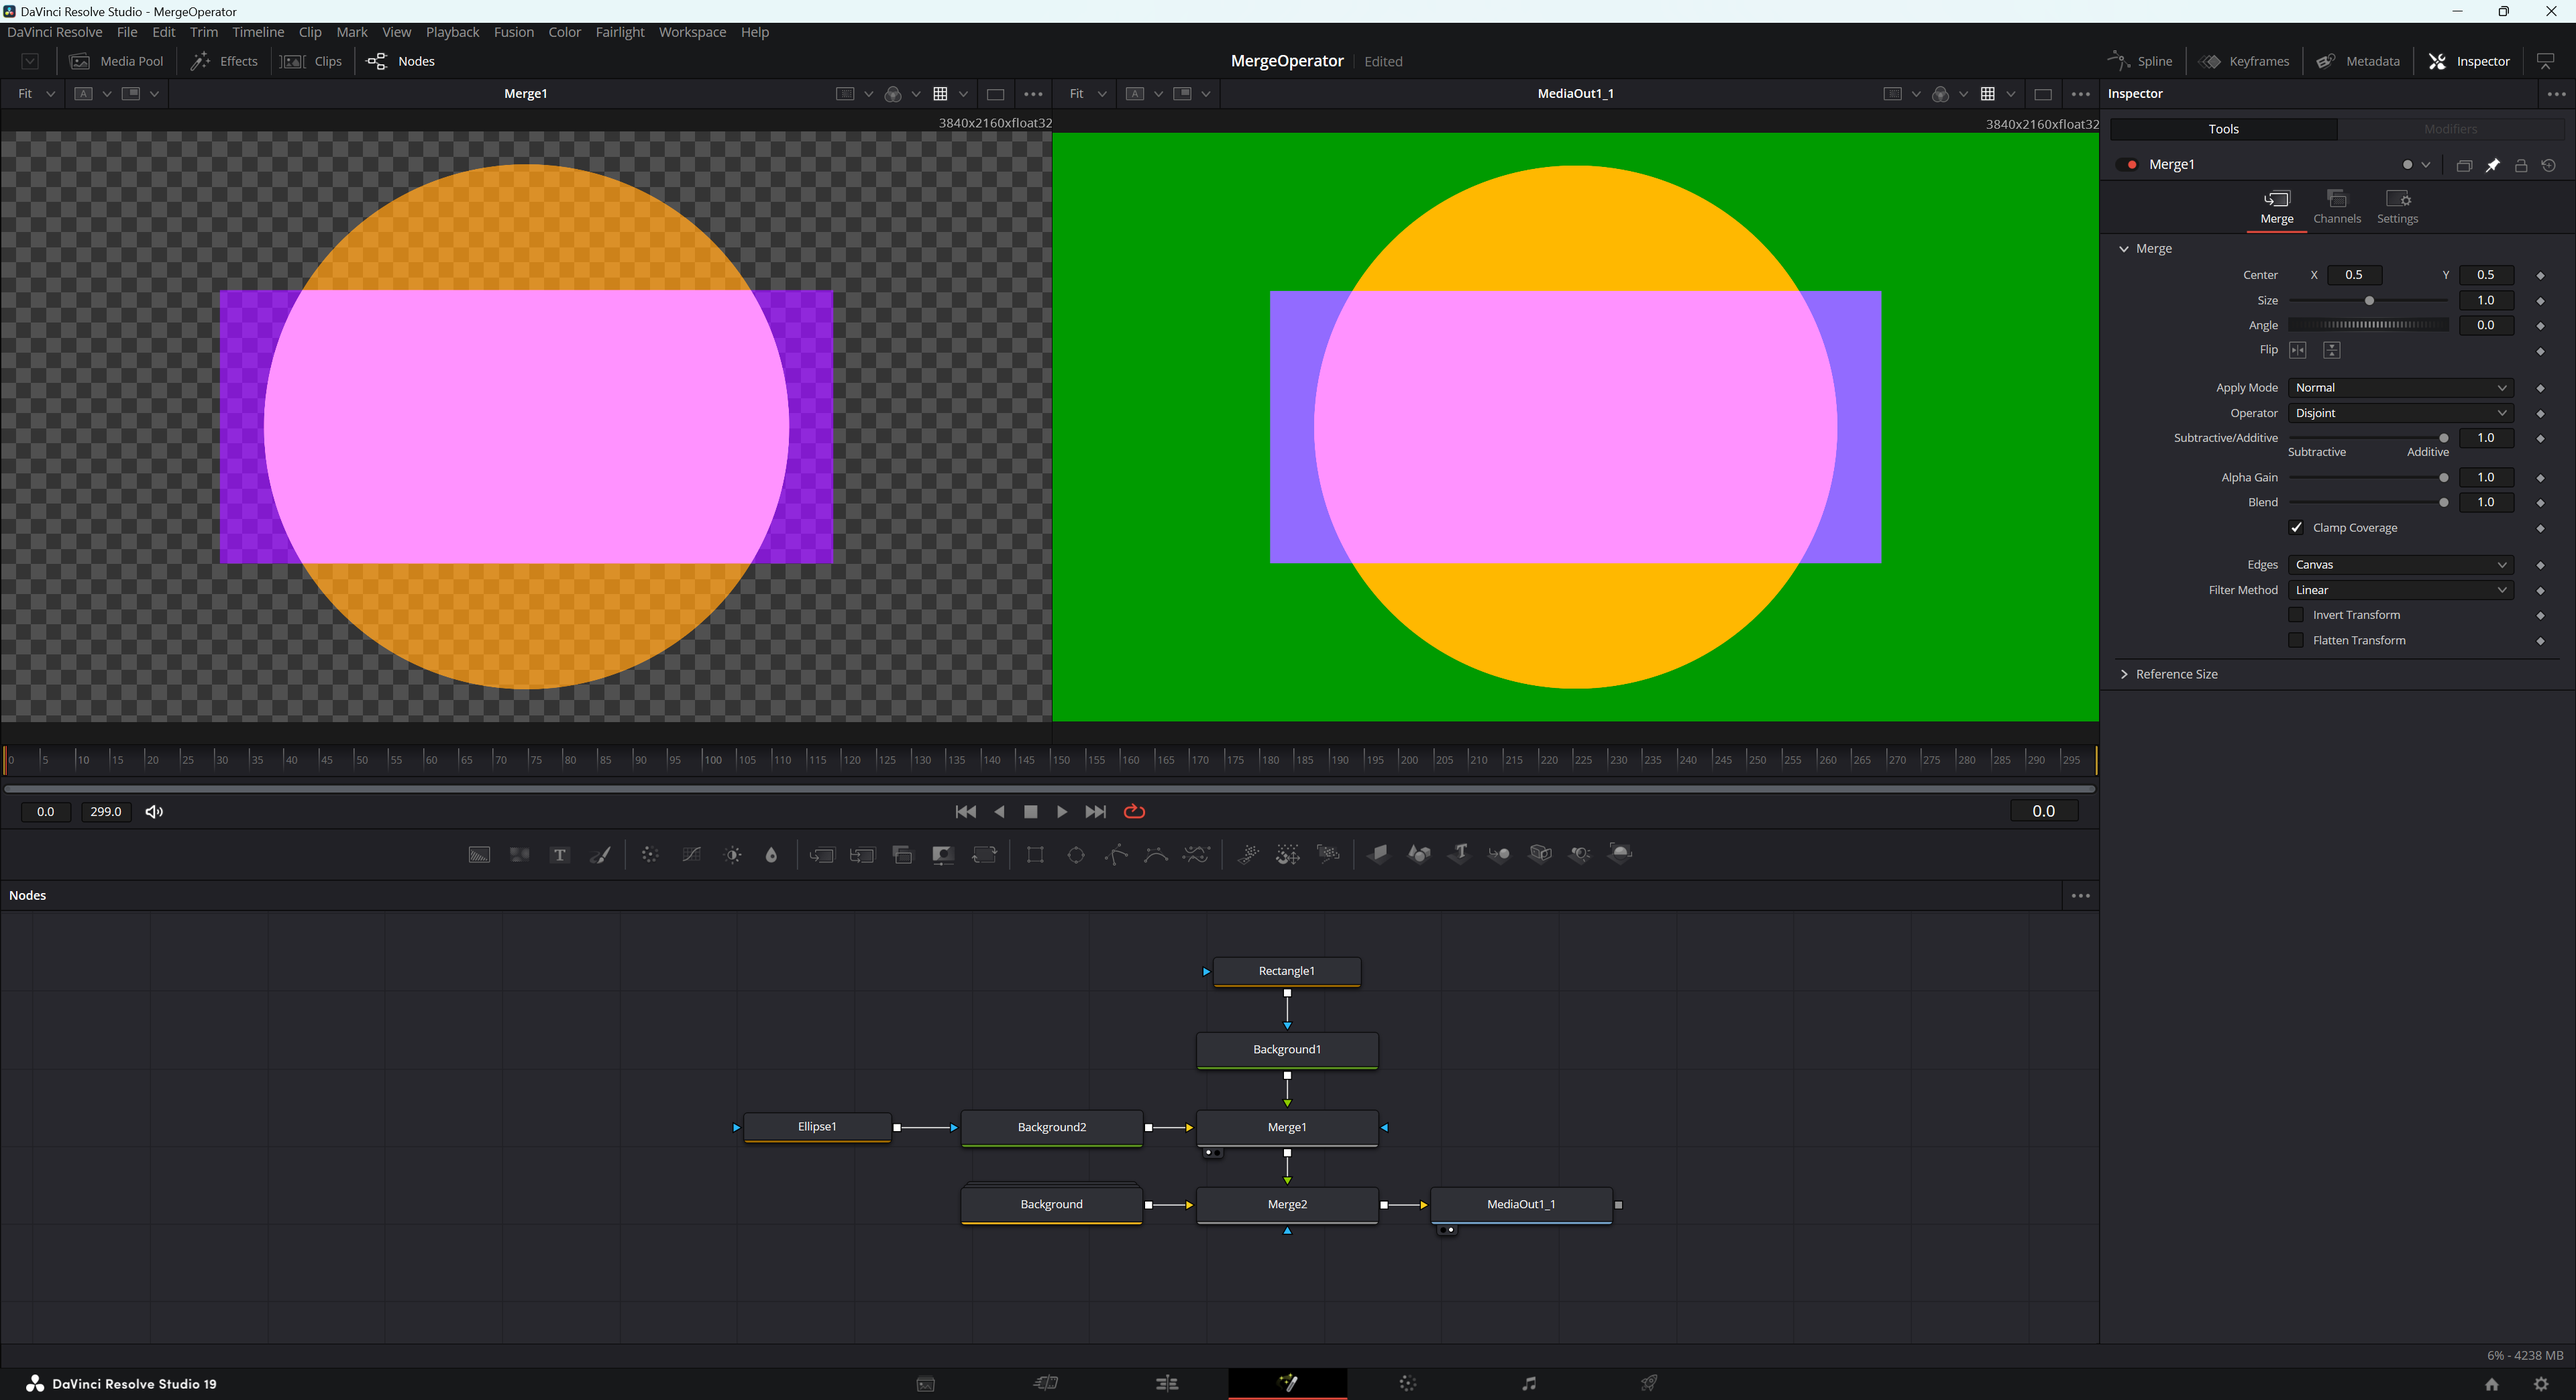
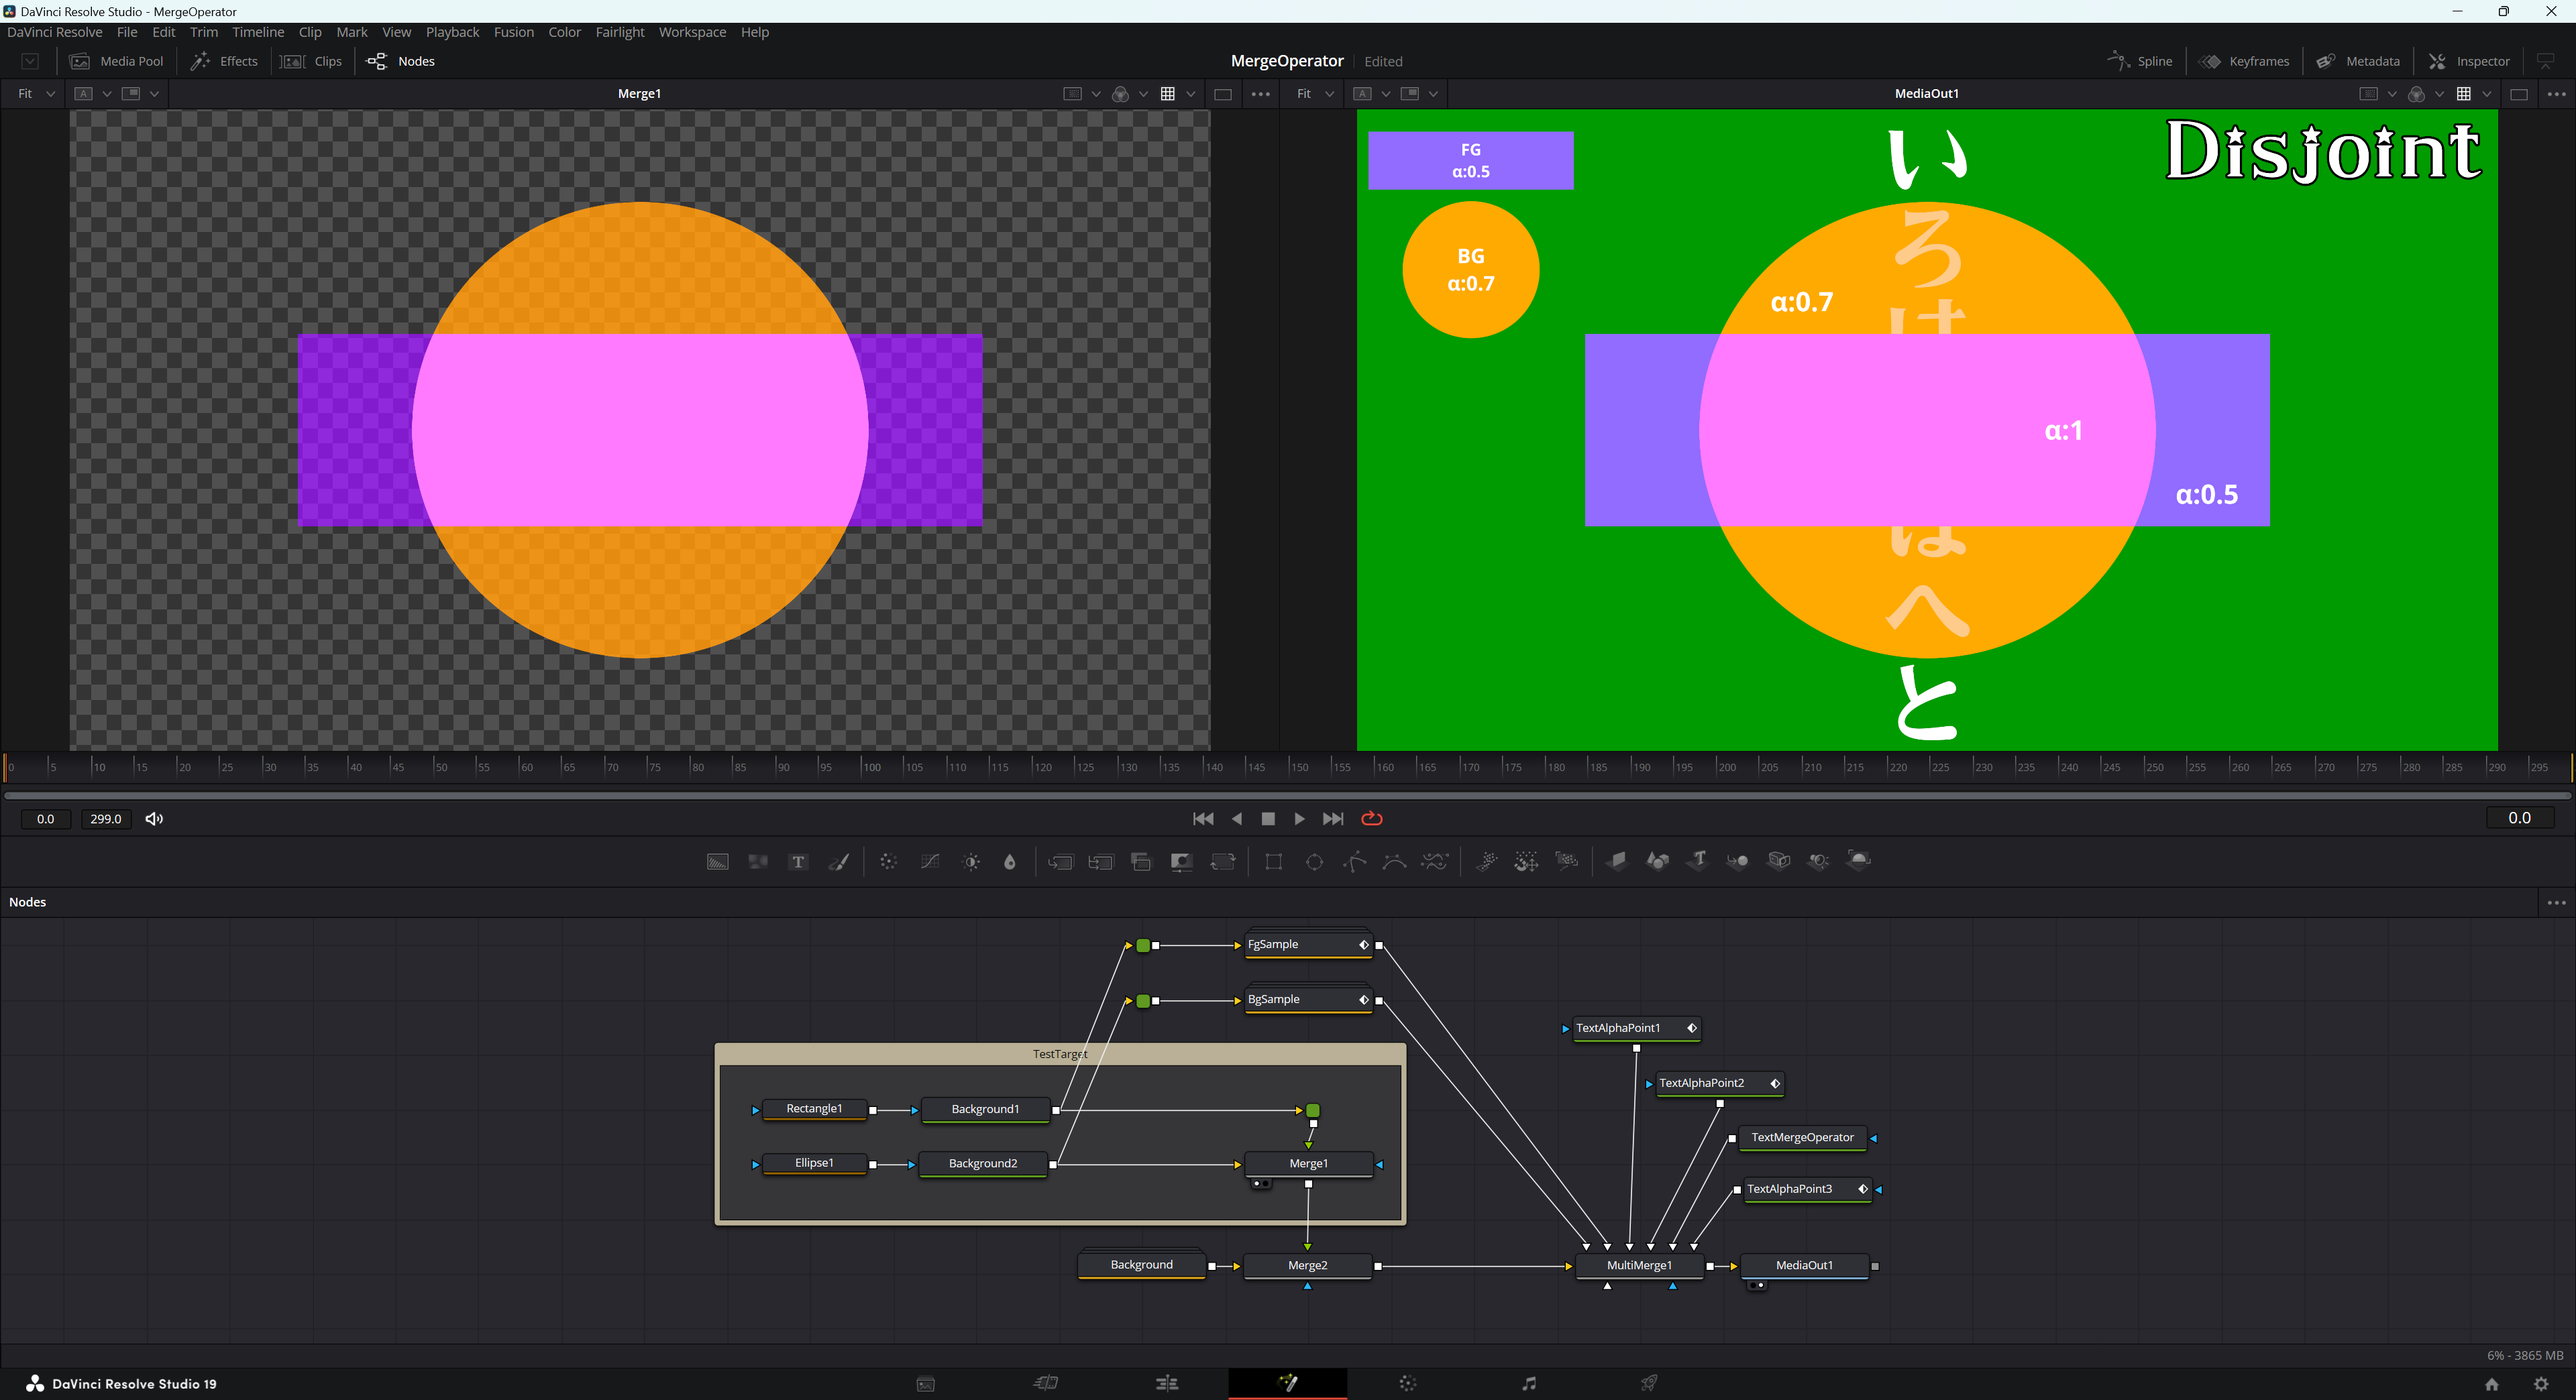
updated

diff --git a/articles/324c272353f854.md b/articles/324c272353f854.md
@@ -22,50 +22,108 @@ Operatorというパラメータがあり、このパラメータでフォアグ
 
 ### 比較用映像
 
-オレンジ色の円と紫色の長方形を用意し、
-長方形側をフォアグラウンドとしてMergeノード(Merge1)で合成します。
-どちらもアルファは0.5です。
+🍊オレンジ色の円形と🍆紫色の長方形を用意し、
+長方形側をフォアグラウンド,円形をバックグランドとして
+Mergeノード(Merge1)で合成します。
+アルファは長方形0.5、円形0.7のパターンと、両方とも1.0のパターンで確認します。
 
-![比較用映像](/images/articles/merge-operator/target.png)
+![比較用映像](/images/articles/merge-operator/test-target.png)
 *比較用映像*
 
 
 ### 背景
 
-緑色の背景に、テキストを重ねたものを背景とします。
+🥦緑色の背景に、テキストを重ねたものを背景とします。
 この上にOperator設定比較用映像を重ねます(Merge2)。
 Merge2のOperatorはOver固定です。
 
 ![背景映像](/images/articles/merge-operator/background.png)
 *背景映像*
 
+### 単独表示
+
+単独で長方形(FgSample)、円形(BgSampl)を左上に表示させて
+Merge後の映像との比較用に使用します。
+
+![サンプル](/images/articles/merge-operator/sample.png)
+
+### アルファ表示
+
+詳細確認用にMerge後の👻アルファ値をテキストで表示します。
+テキストが表示されている位置のアルファ値を表しています。
+ただし、アルファ値表示は多少誤差が出ます😖
+
+![アルファテキスト](/images/articles/merge-operator/alpha-text.png)
+
 ## ⚡Operator比較
+
+各設定値の比較結果は以下のルールで表します。
 
 * プレビュー👈左側はMerge1の出力です
   背景映像との合成前
-
-* プレビュー👉右側はMerge2の出力です
+* プレビュー👉右側はMediaOutの出力です
   背景映像との合成後
+* 対になる設定値は順番を入れ替えて隣接させています
+  DaVinci Resolve上の設定順とは異なります、注意❗
+* 🍆フォアグラウンド側(長方形)をFGとします。
+* 🍊バックグラウンド側(円形)をBGとします。
+
 
 ### Over(オーバー)
+
+FGをBGの上に重ねます。
 
 ![Over](/images/articles/merge-operator/over.png)
 *Over*
 
+### Under(下)
+
+BGをFGの上に重ねます。
+
+![Under](/images/articles/merge-operator/under.png)
+*Under*
+
+
 ### In(イン)
+
+FGとBGで重なる部分のみに切り抜かれます。
 
 ![In](/images/articles/merge-operator/in.png)
 *In*
 
+### Mask(マスク)
+
+FGとBGで重なる部分のみに切り抜かれます。
+切り抜いた部分にBGを表示します。
+
+![Mask](/images/articles/merge-operator/mask.png)
+*Mask*
+
+
 ### Held Out(ヘルドアウト)
+
+FGが表示されます。
+重なり部分のアルファの計算方法は謎です😭🙏
 
 ![Held Out](/images/articles/merge-operator/held-out.png)
 *Held Out*
 
 ### Atop(ATOP)
 
+FGをBGに重ねた状態でBGの範囲で切り抜かれます。
+アルファはBGの値になります。
+
 ![Atop](/images/articles/merge-operator/atop.png)
 *Atop*
+
+
+### Stencil(ステンシル)
+
+BGの範囲で切り抜かれます。
+
+![Stencil](/images/articles/merge-operator/stencil.png)
+*Stencil*
+
 
 ### XOr(排他的論理和)
 
@@ -83,18 +141,8 @@ Merge2のOperatorはOver固定です。
 ![Disjoint](/images/articles/merge-operator/disjoint.png)
 *Disjoint*
 
-### Mask(マスク)
 
-![Mask](/images/articles/merge-operator/mask.png)
-*Mask*
+## まとめ
 
-### Stencil(ステンシル)
-
-![Stencil](/images/articles/merge-operator/stencil.png)
-*Stencil*
-
-### Under(下)
-
-![Under](/images/articles/merge-operator/under.png)
-*Under*
-
+👻半透明のものをマージすると結果が予測しづらいので
+完全に透明か不透明にしてからマージした方が使いと思います🐼
